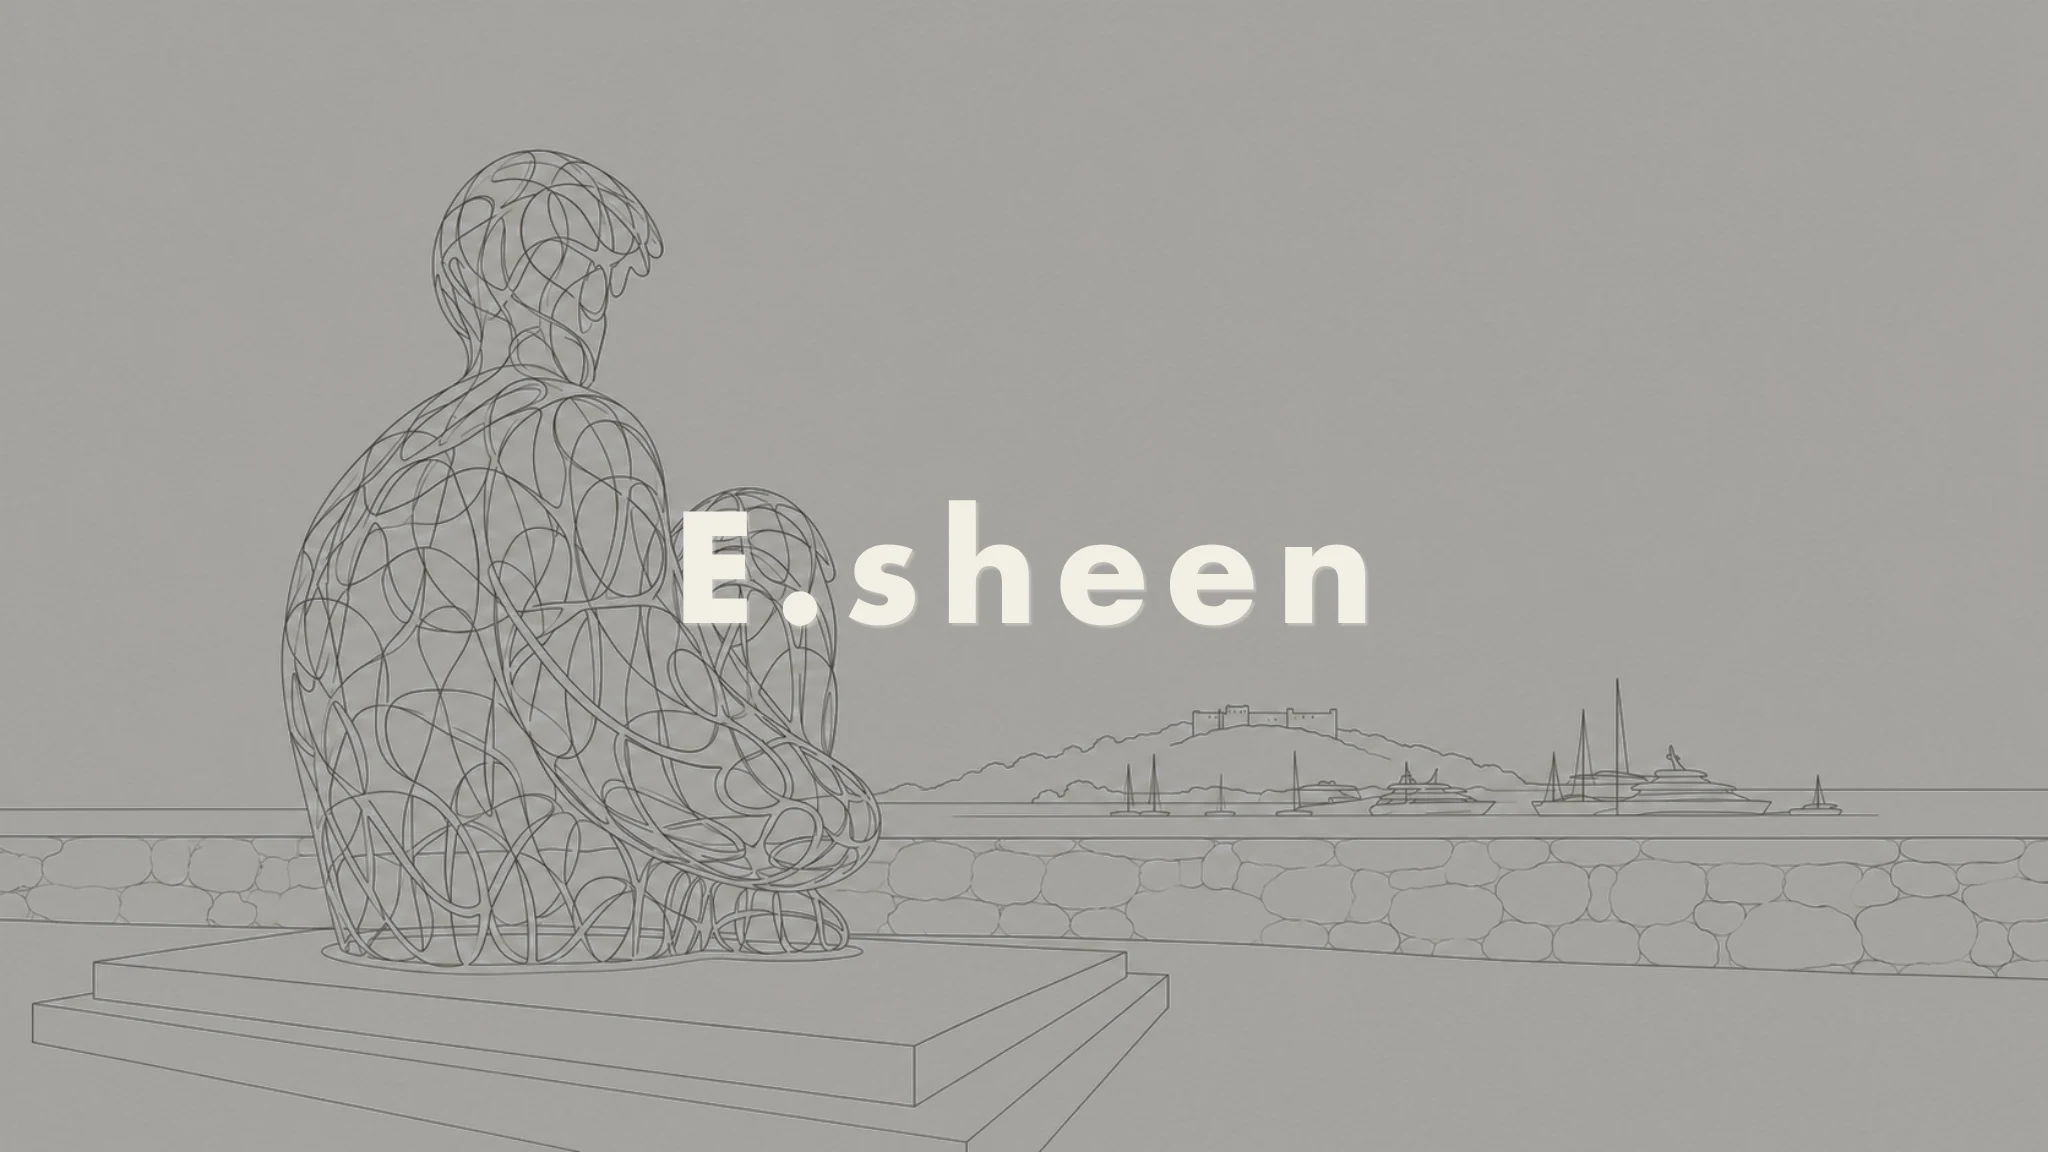
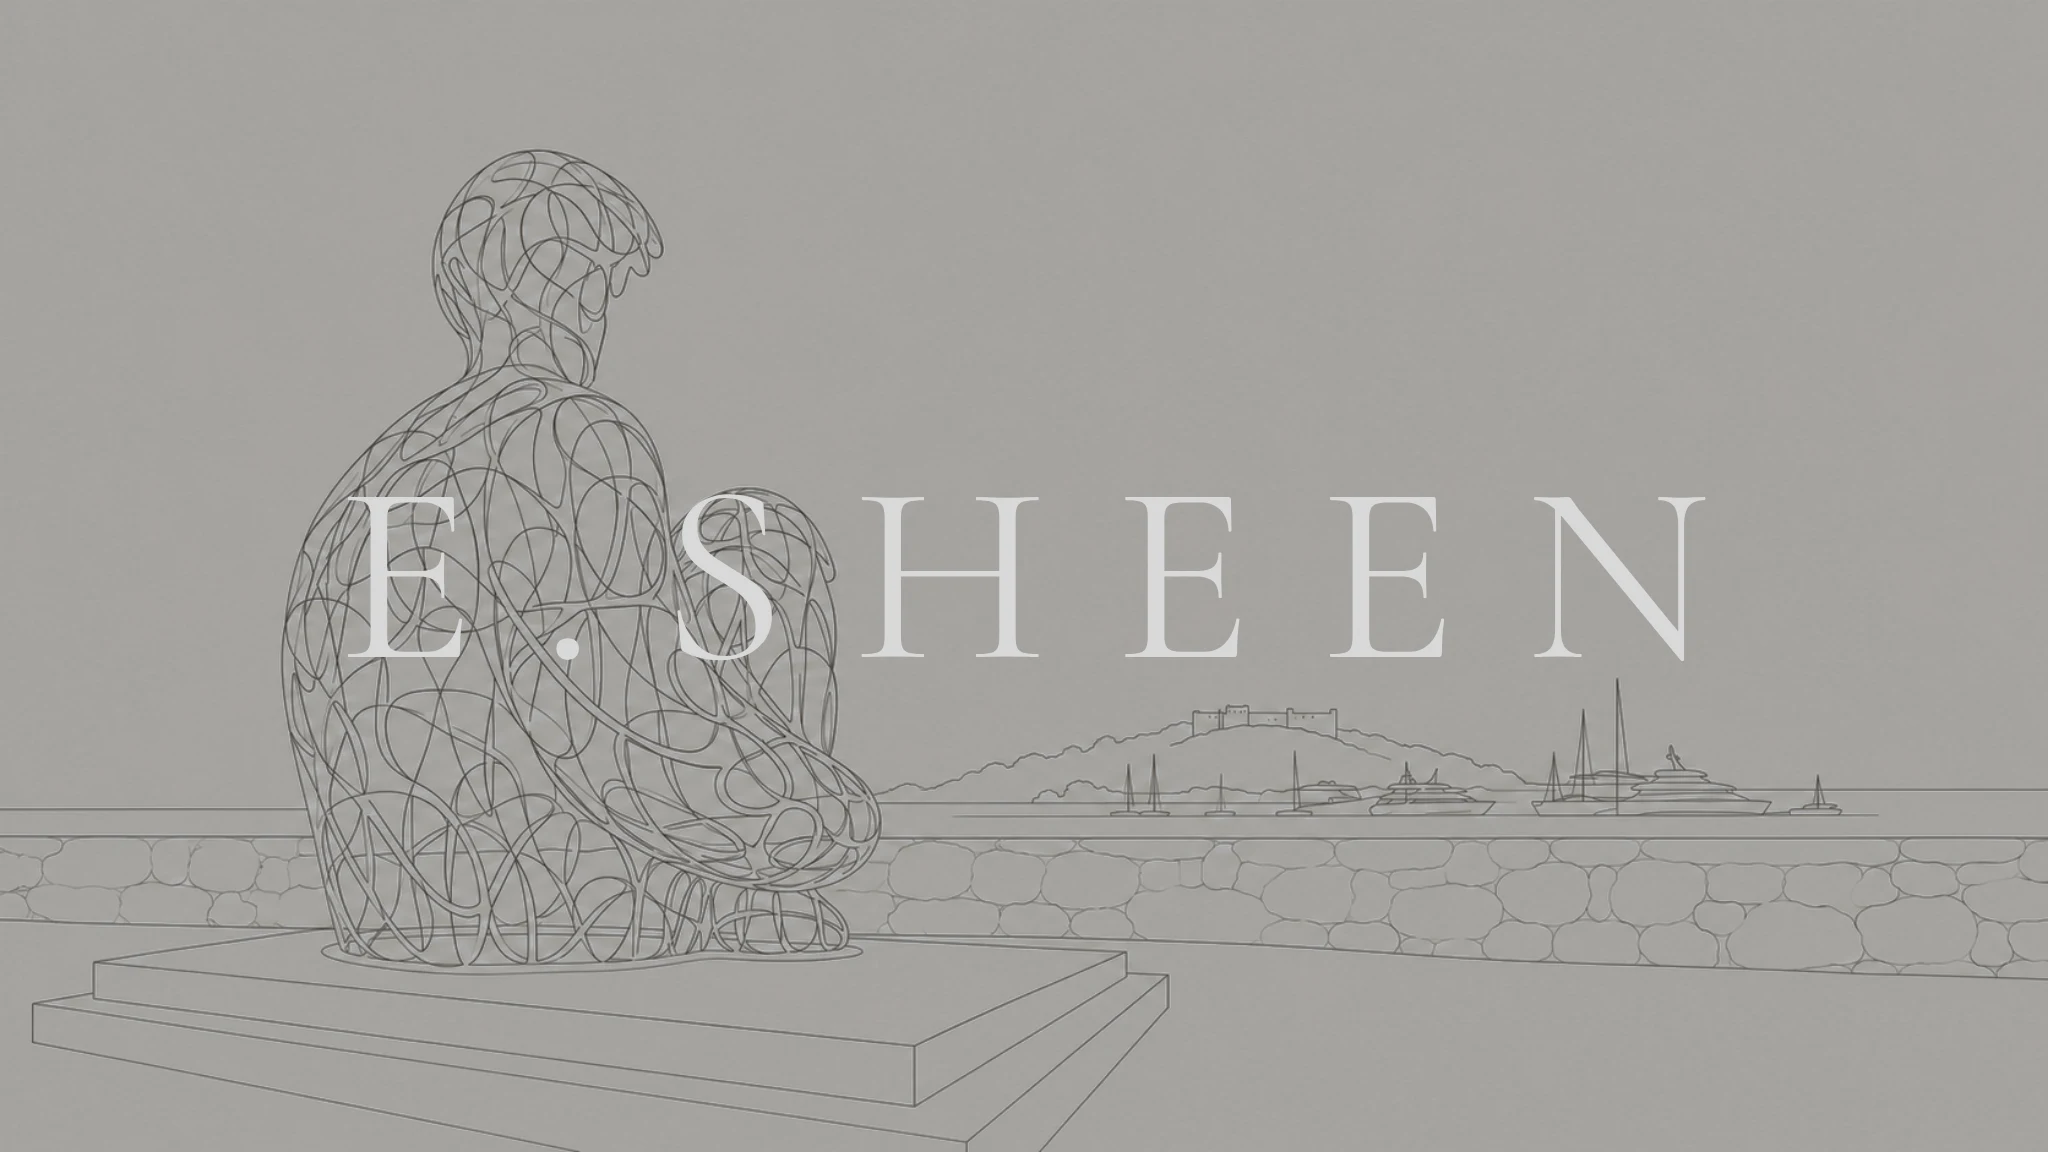
Serve from esheen.skin, add hover menus, and fill in the condition covers
- Canonical URLs, sitemap and robots.txt now use https://esheen.skin,
  which points at this Pages project as of today
- New E.SHEEN logo in the header, sized by height since the mark is
  square; the homepage line-art hero uses the matching serif wordmark
- Desktop nav items open a dropdown on hover or keyboard focus, listing
  only pages that exist
- Rosacea and acne illustrations on the conditions page and homepage
- 醫學美容 uses the same card grid as 皮膚疾病; the grid is auto-fill so
  a lone card keeps its normal width

diff --git a/src/styles/global.css b/src/styles/global.css
@@ -167,17 +167,108 @@ button {
   text-decoration: none;
 }
 
+/* The mark is roughly square, so it is sized by height to keep the bar slim. */
 .brand img {
-  width: 84px;
-  height: auto;
+  height: 64px;
+  width: auto;
   display: block;
 }
 
+/* The nav stretches to the full bar height so each dropdown can hang from
+   the header's bottom edge rather than from the middle of the link text. */
 .nav {
   display: flex;
-  align-items: center;
+  align-self: stretch;
+  align-items: stretch;
   gap: 26px;
   font-size: 15px;
+}
+
+.nav__item {
+  position: relative;
+  display: flex;
+  align-items: center;
+}
+
+.nav__caret {
+  display: inline-block;
+  margin-left: 4px;
+  font-size: 10px;
+  color: var(--muted);
+  transition: transform 0.2s ease;
+}
+
+.nav__item:hover .nav__caret,
+.nav__item:focus-within .nav__caret {
+  transform: rotate(180deg);
+}
+
+.nav__menu {
+  position: absolute;
+  top: 100%;
+  left: 50%;
+  z-index: 50;
+  min-width: 190px;
+  /* 14px bar padding + 1px border: the panel starts at the header's edge. */
+  margin-top: 15px;
+  padding: 8px 0;
+  background: var(--surface);
+  border: 1px solid var(--border);
+  border-radius: 12px;
+  box-shadow: var(--shadow-pop);
+  opacity: 0;
+  visibility: hidden;
+  transform: translate(-50%, 6px);
+  /* Visibility waits for the fade so a pointer drifting off doesn't snap it shut. */
+  transition: opacity 0.18s ease, transform 0.18s ease, visibility 0s linear 0.18s;
+}
+
+/* Invisible bridge across the gap, so moving down from the link keeps it open. */
+.nav__menu::before {
+  content: '';
+  position: absolute;
+  left: 0;
+  right: 0;
+  top: -16px;
+  height: 16px;
+}
+
+.nav__item:hover .nav__menu,
+.nav__item:focus-within .nav__menu {
+  opacity: 1;
+  visibility: visible;
+  transform: translate(-50%, 0);
+  transition-delay: 0s;
+}
+
+.nav__menu a {
+  display: block;
+  padding: 9px 20px;
+  font-size: 14px;
+  color: var(--body);
+  text-decoration: none;
+  white-space: nowrap;
+}
+
+.nav__menu a:hover,
+.nav__menu a:focus-visible {
+  background: var(--surface-alt);
+  color: var(--accent);
+}
+
+.nav__menu a.is-lead {
+  font-weight: 700;
+  color: var(--heading);
+  border-bottom: 1px solid var(--border);
+  margin-bottom: 4px;
+  padding-bottom: 11px;
+}
+
+@media (prefers-reduced-motion: reduce) {
+  .nav__menu,
+  .nav__caret {
+    transition: none;
+  }
 }
 
 .nav__link {
@@ -197,6 +288,7 @@ button {
 }
 
 .nav__book {
+  align-self: center;
   background: var(--accent);
   color: #fff;
   border-radius: 100px;
@@ -1486,9 +1578,11 @@ body.has-drawer {
   }
 }
 
+/* auto-fill (not auto-fit) keeps the empty columns, so a section with a
+   single card shows it at the same size as a full row of three. */
 .area-grid {
   display: grid;
-  grid-template-columns: repeat(auto-fit, minmax(250px, 1fr));
+  grid-template-columns: repeat(auto-fill, minmax(250px, 1fr));
   gap: 18px;
   margin-top: 20px;
 }
@@ -1529,6 +1623,24 @@ body.has-drawer {
   );
   color: var(--muted);
   font-size: 13px;
+}
+
+/* Stands in for a cover illustration: same footprint as .area-card__img. */
+.area-card__plate {
+  width: calc(100% + 48px);
+  max-width: none;
+  margin: -24px -24px 18px;
+  height: 150px;
+  display: flex;
+  align-items: center;
+  justify-content: center;
+  background: linear-gradient(160deg, #efe7de 0%, #e2d6c8 100%);
+}
+
+.area-card__plate img {
+  height: 70px;
+  width: auto;
+  opacity: 0.55;
 }
 
 .area-card__img {
